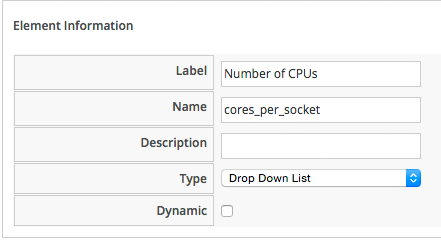
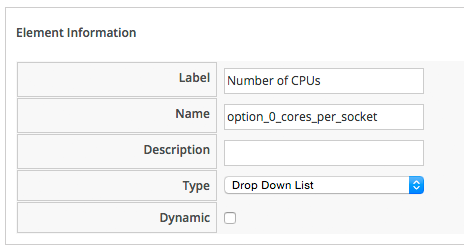
new edits 21-08-2015

diff --git a/chapter18/creating_a_service_item.md b/chapter18/creating_a_service_item.md
@@ -66,7 +66,7 @@ The following table lists some commonly used element names for typical VM charac
 
 #### Creating the Service Dialog
 
-We know from the investigation above that we must name our service dialog elements: _vm\_name_, _service\_name_, _cores\_per\_socket_ and _vm\_memory_.
+We know from the investigation above that we must name our service dialog elements: _vm\_name_, _service\_name_, _option\_0\_cores\_per\_socket_ and _option\_0\_vm\_memory_.
 
 We'll create our service dialog in the same way that we did in [A More Advanced Example](../chapter7/a_more_advanced_example.md), but this time we'll create two boxes _Service and VM Names_, and _VM Characteristics_, each containing two elements...
 <br><br>
@@ -78,7 +78,7 @@ The _Service Name_ and _VM Name_ elements in the first box are both of type _Tex
 The _Number of CPUs_ element in the second box is of type _Drop Down List_...
 <br><br>
 
-![screenshot](images/screenshot18.png)
+![screenshot](images/screenshot18.png?)
 
 with a list populated as follows...
 
@@ -86,7 +86,7 @@ with a list populated as follows...
 
 The _VM Memory_ element in the second box is of type _Drop Down List_...
 
-![screenshot](images/screenshot20.png)
+![screenshot](images/screenshot20.png?)
 
 with a list populated as follows...
 

diff --git a/chapter20/distributed_processing.md b/chapter20/distributed_processing.md
@@ -1,0 +1,1 @@
+# Distributed Automation Processing

diff --git a/chapter18/custom_state_machines.md b/chapter18/custom_state_machines.md
@@ -1,0 +1,1 @@
+# Custom State Machines

diff --git a/chapter18/catalog_bundles.md b/chapter18/catalog_bundles.md
@@ -1,0 +1,1 @@
+# Catalog Bundles

diff --git a/chapter18/service_objects.md b/chapter18/service_objects.md
@@ -1,0 +1,1 @@
+# Service Objects
